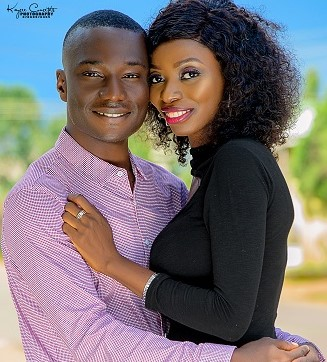
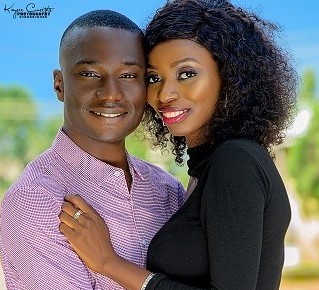
image adjustments

diff --git a/src/pages/Home.vue b/src/pages/Home.vue
@@ -190,15 +190,15 @@
 <!-- Column One -->           
           <div class="col-xs-12 col-sm-6 col-md-6">
             <div class="q-pb-md">
-                <q-img  class="radius" src="images/pic111.jpg" :ratio="4/3" />
+                <q-img  class="radius" src="images/pic111.jpg" :ratio="1" />
             </div>
 
             <div class="q-pb-md">
-                <q-img class="radius"  src="images/pic112.jpg" :ratio="4/3" />
+                <q-img class="radius"  src="images/pic112.jpg" :ratio="1" />
             </div>
 
             <div class="q-pb-md">
-                <q-img class="radius"  src="images/pic1.jpg" :ratio="4/3" />
+                <q-img class="radius"  src="images/pic1.jpg" :ratio="1" />
             </div>
 
             <div class="q-pb-md">
@@ -224,7 +224,7 @@
             </div>
 
             <div class="q-pb-md">
-                <q-img class="radius"  src="images/pic8.jpg" :ratio="4/3" />
+                <q-img class="radius"  src="images/pic8.jpg" :ratio="1" />
             </div>
 
             <div class="q-pb-md">
@@ -232,19 +232,19 @@
             </div>
 
             <div class="q-pb-md">
-                <q-img class="radius"  src="images/pic10.jpg" :ratio="4/3" />
+                <q-img class="radius"  src="images/pic10.jpg" :ratio="1" />
             </div>
 
             <div class="q-pb-md">
-                <q-img class="radius"  src="images/pic11.jpg" :ratio="4/3" />
+                <q-img class="radius"  src="images/pic11.jpg" :ratio="1" />
             </div>
 
             <div class="q-pb-md">
-                <q-img class="radius"  src="images/pic12.jpg" :ratio="4/3" />
+                <q-img class="radius"  src="images/pic12.jpg" :ratio="1" />
             </div>    
 
             <div class="q-pb-md">
-                <q-img class="radius"  src="images/pic13.jpg" :ratio="4/3" />
+                <q-img class="radius"  src="images/pic13.jpg" :ratio="1" />
             </div> 
           </div>                    
         </div>
